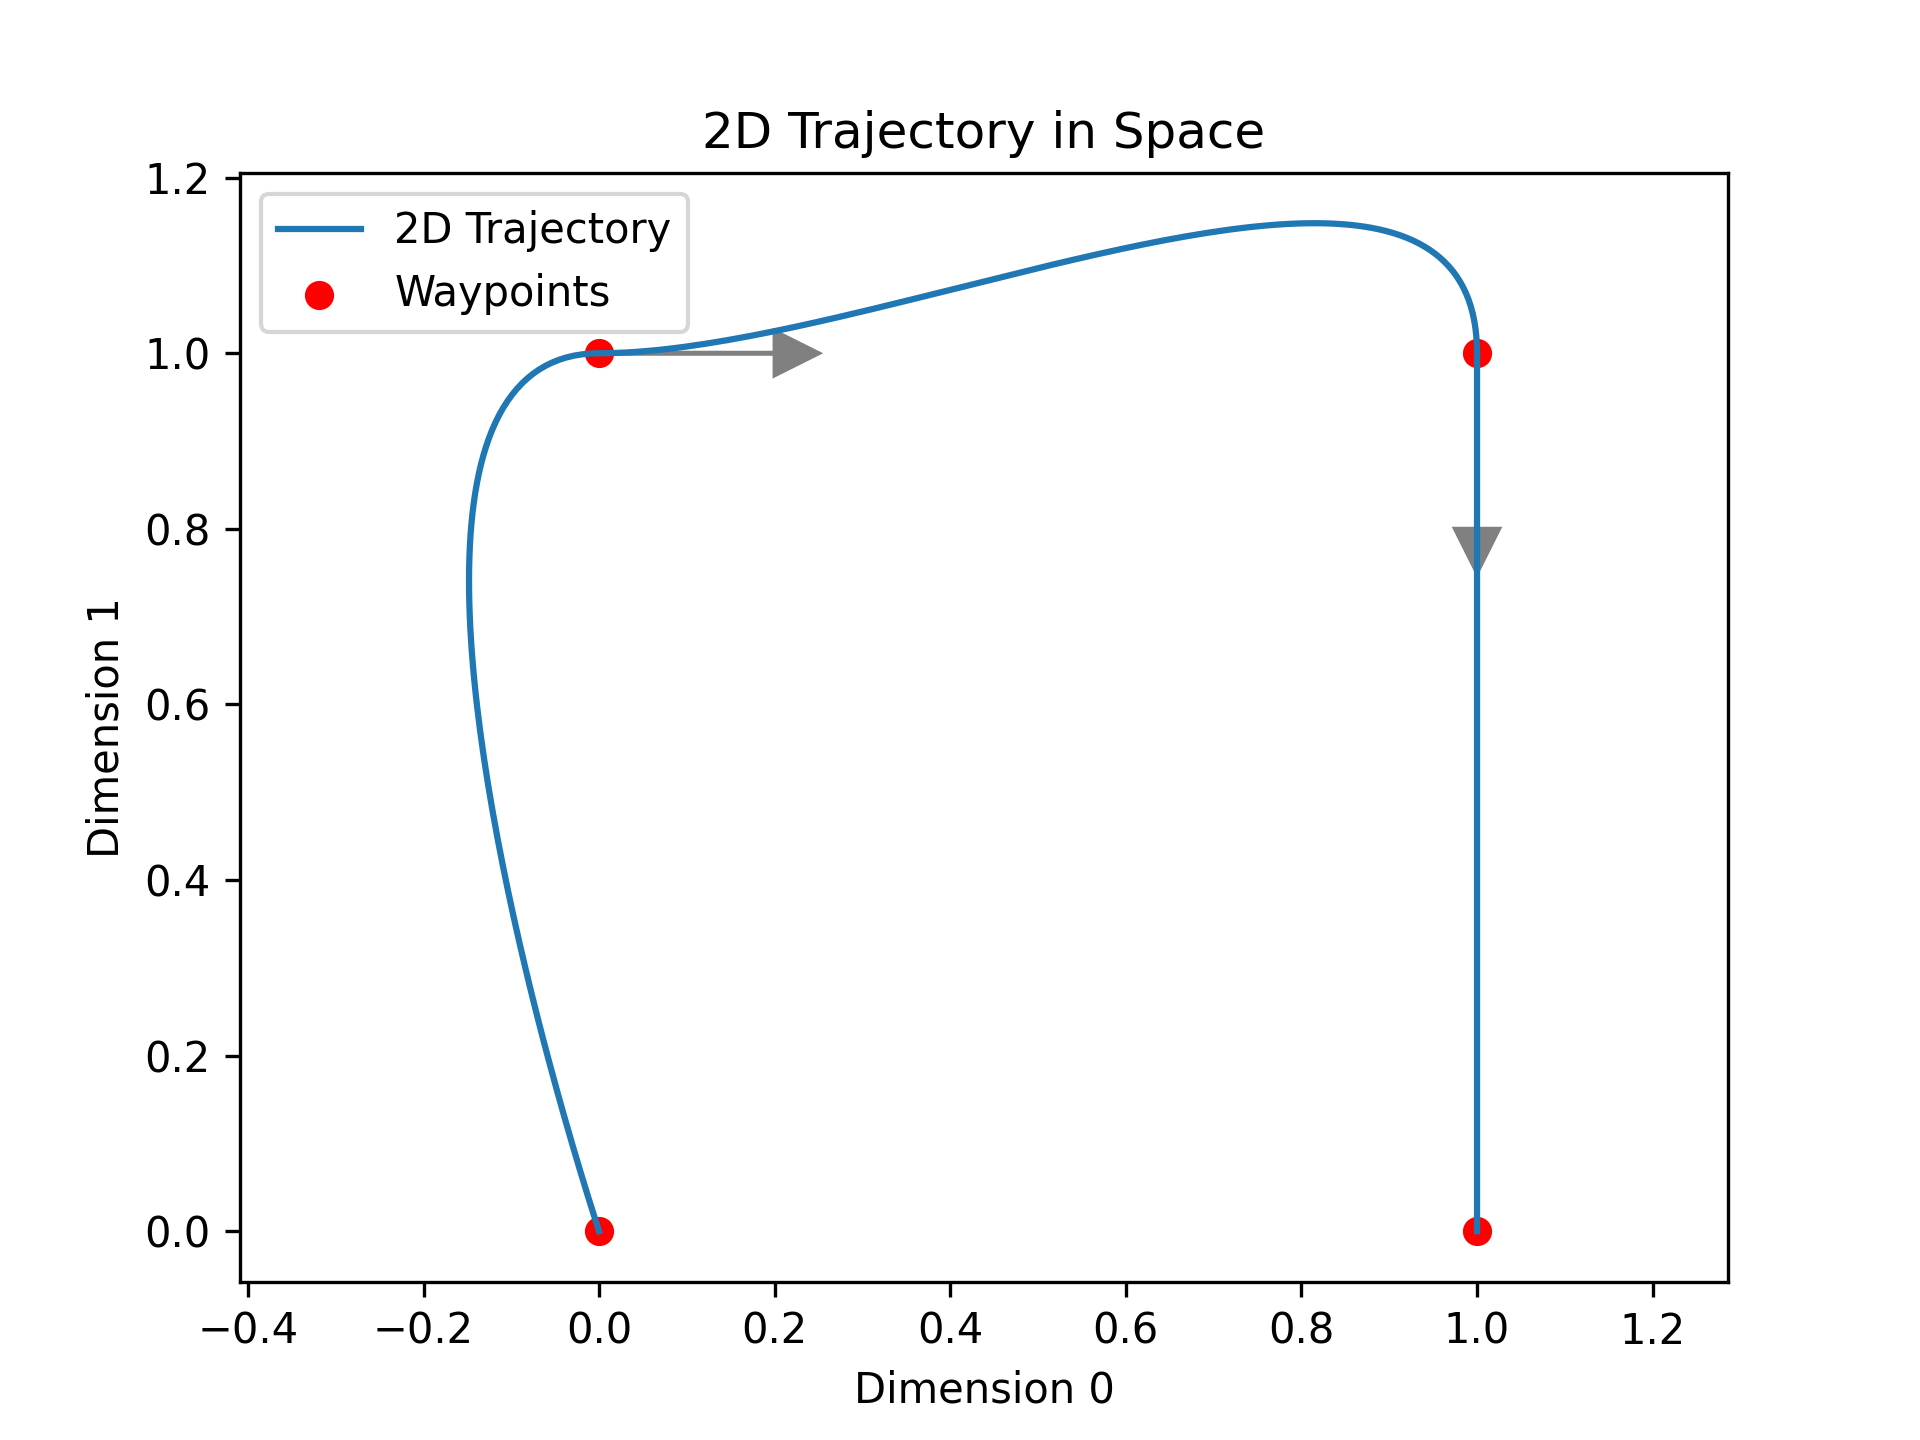
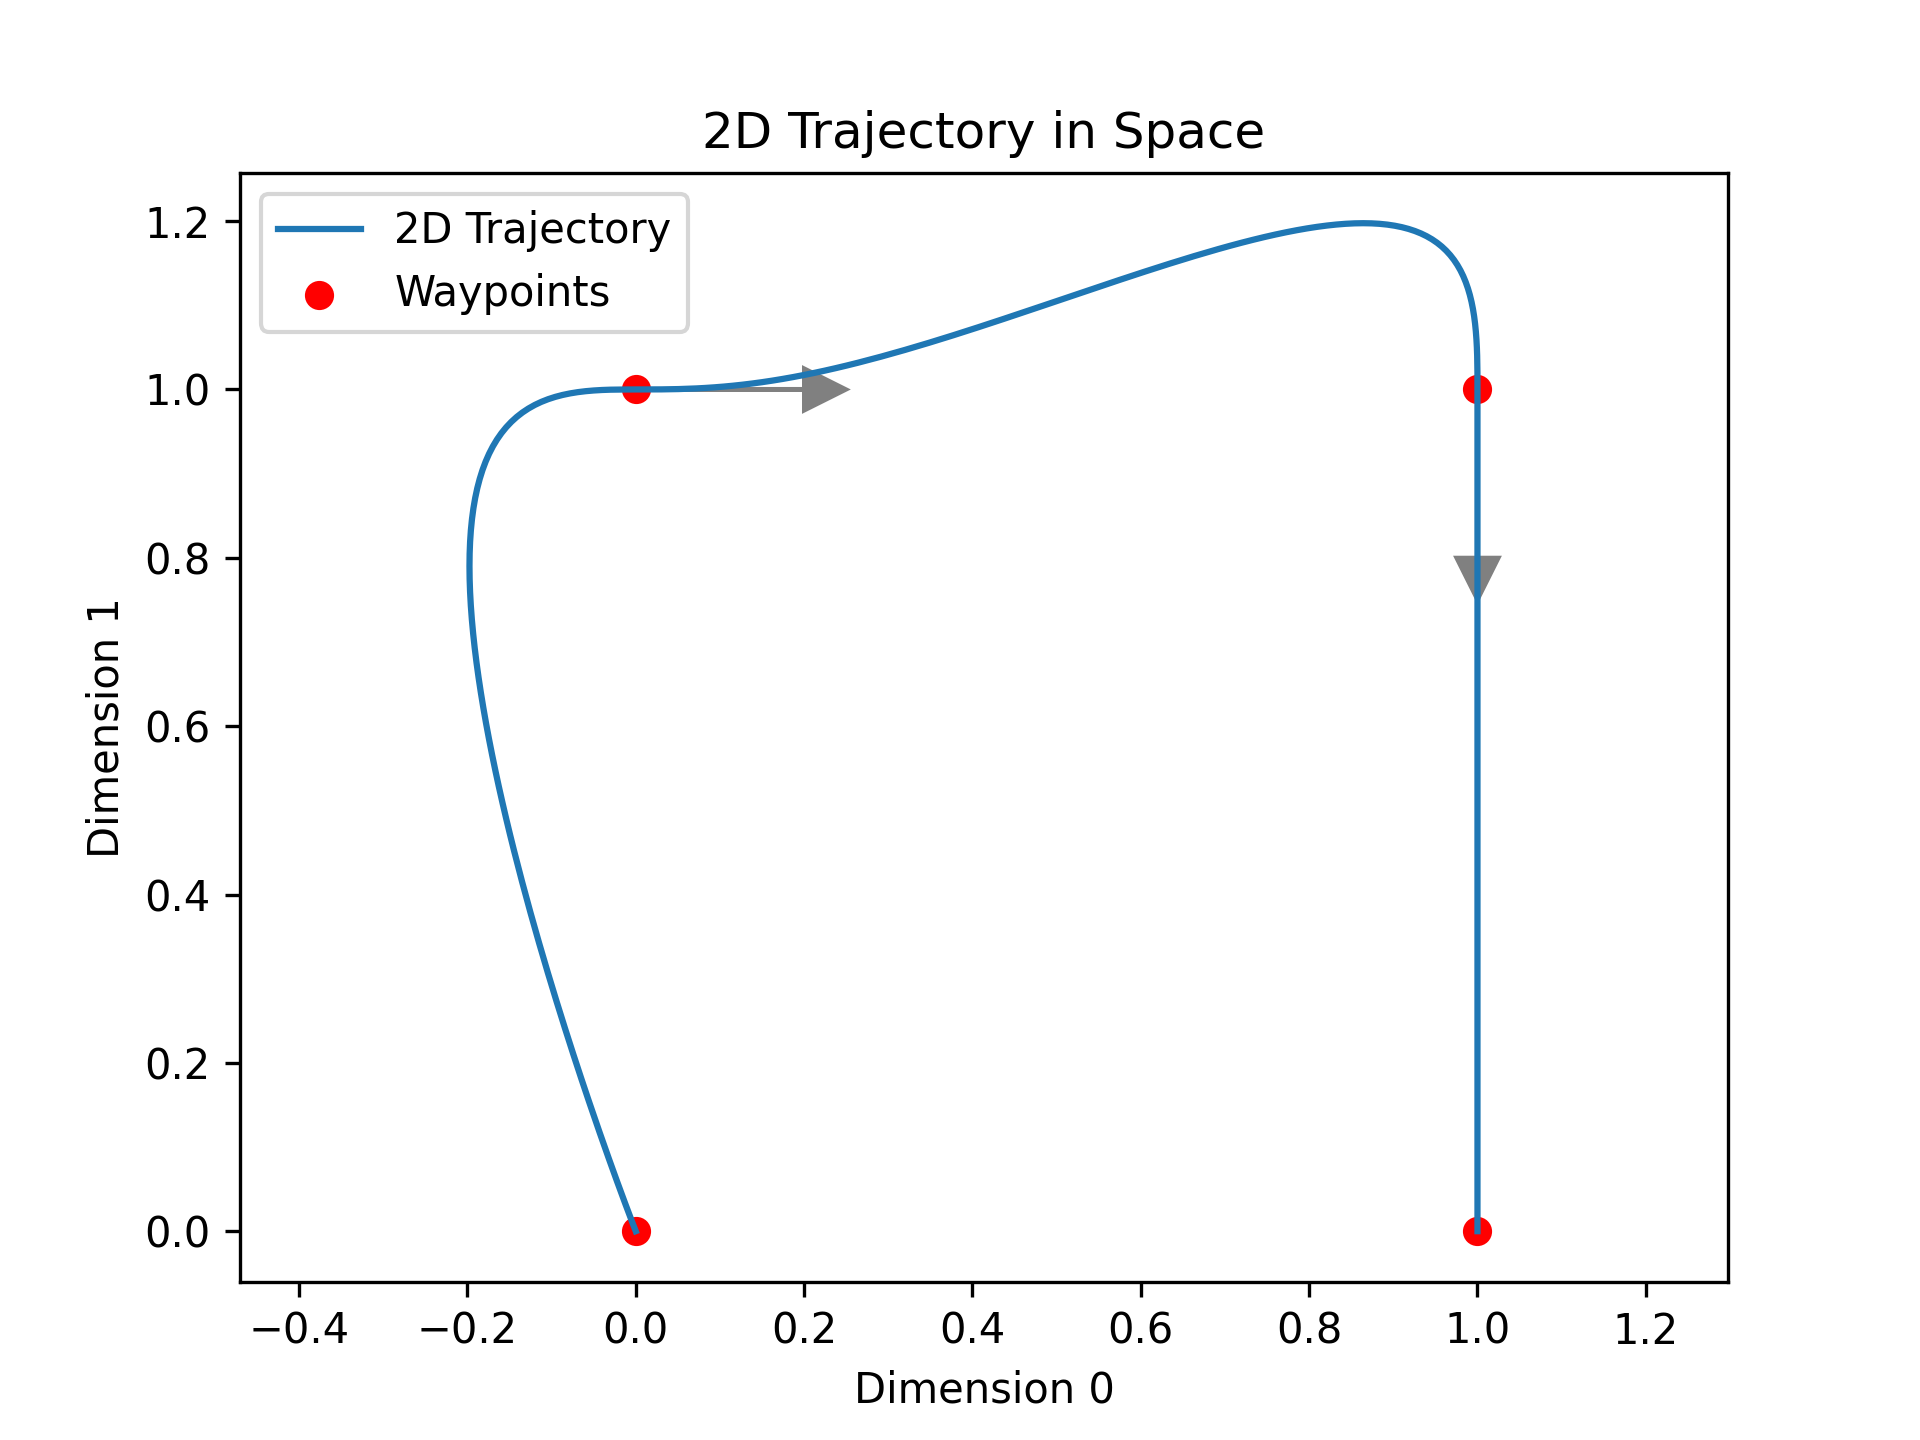
add 5 order to via point

diff --git a/experiments/polynomial_via_point_trajectories/simple_rectangular_motion.py b/experiments/polynomial_via_point_trajectories/simple_rectangular_motion.py
@@ -4,7 +4,7 @@ import matplotlib.pyplot as plt
 
 from basic_algos.trajectory_generation.polynomial_via_point_trajectories import polynomial_via_point_trajectories
 
-def plot_multidimensional_trajectory(coefficients, durations, waypoints=None, velocities=None, num_points=100, save_path=None):
+def plot_multidimensional_trajectory(coefficients, durations, waypoints=None, velocities=None, num_points=100, save_path=None, order=3):
     """
     Plot the multi-dimensional trajectory.
 
@@ -35,17 +35,27 @@ def plot_multidimensional_trajectory(coefficients, durations, waypoints=None, ve
 
         # Compute and concatenate the trajectory segments for the current dimension
         for idx, coeffs in enumerate(dim_coeffs):
-            A, B, C, D = coeffs
+            if order == 3:
+                A, B, C, D = coeffs
+            elif order == 5:
+                A, B, C, D, E, F = coeffs
 
             # Time steps for this segment
             segment_duration = durations[idx]
             segment_time_steps = np.linspace(0, segment_duration, num_points)
 
-            # Calculate position, velocity, and acceleration for this segment
-            pos = A * segment_time_steps**3 + B * segment_time_steps**2 + C * segment_time_steps + D
-            vel = 3 * A * segment_time_steps**2 + 2 * B * segment_time_steps + C
-            acc = 6 * A * segment_time_steps + 2 * B
-
+            if order == 3:
+                # Calculate position, velocity, and acceleration for this segment
+                pos = A * segment_time_steps**3 + B * segment_time_steps**2 + C * segment_time_steps + D
+                vel = 3 * A * segment_time_steps**2 + 2 * B * segment_time_steps + C
+                acc = 6 * A * segment_time_steps + 2 * B
+            elif order == 5:
+                # Calculate position, velocity, and acceleration for quintic polynomial
+                pos = A * segment_time_steps**5 + B * segment_time_steps**4 + C * segment_time_steps**3 + D * segment_time_steps**2 + E * segment_time_steps + F
+                vel = 5 * A * segment_time_steps**4 + 4 * B * segment_time_steps**3 + 3 * C * segment_time_steps**2 + 2 * D * segment_time_steps + E
+                acc = 20 * A * segment_time_steps**3 + 12 * B * segment_time_steps**2 + 6 * C * segment_time_steps + 2 * D
+            else:
+                raise NotImplementedError
             if full_time_steps:
                 segment_time_steps += full_time_steps[-1][-1]  # Offset the time steps to align segments
             full_time_steps.append(segment_time_steps)
@@ -128,15 +138,21 @@ def plot_multidimensional_trajectory(coefficients, durations, waypoints=None, ve
         plt.show()
 
 if __name__ == '__main__':
+    order = 5
+
     # Set up the example
     waypoints = np.array([[0, 0], [0, 1], [1, 1], [1, 0]])  # Example for 2D
     velocities = np.array([[0, 0], [1, 0], [0, -1], [0, 0]])  # Initial and final velocities for each waypoint
     durations = np.array([1.0, 1.0, 1.0])
 
+    # waypoints = np.array([[1.0, 1.0], [1.0, 0.0]])  # Example for 2D
+    # velocities = np.array([[0.0, -1.0], [0.0, 0.0]])  # Initial and final velocities for each waypoint
+    # durations = np.array([1.0])
+
     # Generate coefficients for the polynomial trajectories
-    coefficients = polynomial_via_point_trajectories(waypoints, velocities, durations)
+    coefficients = polynomial_via_point_trajectories(waypoints, velocities, durations, order=order)
 
     # Plot the trajectories and save the plot
     log_dir = os.path.dirname(os.path.abspath(__file__))
     save_path = os.path.join(log_dir, '2D_rectangular_trajectory_plot.png')
-    plot_multidimensional_trajectory(coefficients, durations, waypoints=waypoints, velocities=velocities, save_path=save_path)
+    plot_multidimensional_trajectory(coefficients, durations, waypoints=waypoints, velocities=velocities, save_path=save_path, order=order)

diff --git a/basic_algos/trajectory_generation/point_to_point_trajectories/polynomial_time_scaling.py b/basic_algos/trajectory_generation/point_to_point_trajectories/polynomial_time_scaling.py
@@ -19,16 +19,16 @@ def third_order_polynomial_time_scaling(start_pos, end_pos, start_vel=0, end_vel
             coefficients: (A, B, C, D) Coefficients of the third-order polynomial.
             duration: Calculated time duration of the motion.
     """
-    # Calculate the total position change
-    delta_pos = np.abs(end_pos - start_pos)
+    # Calculate the total position change (retain direction)
+    delta_pos = end_pos - start_pos
     
     # If max_vel or max_acc is provided, calculate the duration
     if max_vel is not None or max_acc is not None:
         # Calculate duration based on maximum velocity if provided
-        duration_vel = 3 * delta_pos / (2 * max_vel) if max_vel is not None else 0.0
+        duration_vel = 3 * np.abs(delta_pos) / (2 * max_vel) if max_vel is not None else 0.0
         
         # Calculate duration based on maximum acceleration if provided
-        duration_acc = np.sqrt((6 * delta_pos) / max_acc) if max_acc is not None else 0.0
+        duration_acc = np.sqrt((6 * np.abs(delta_pos)) / max_acc) if max_acc is not None else 0.0
         
         # Choose the larger duration to ensure both constraints are satisfied
         duration = max(duration_vel, duration_acc, duration) if duration is not None else max(duration_vel, duration_acc)
@@ -40,6 +40,7 @@ def third_order_polynomial_time_scaling(start_pos, end_pos, start_vel=0, end_vel
     D = start_pos
 
     return (A, B, C, D), duration
+
 
 def fifth_order_polynomial_time_scaling(start_pos, end_pos, start_vel=0, end_vel=0, start_acc=0, end_acc=0, max_vel=None, max_acc=None, duration=None):
     """
@@ -62,17 +63,17 @@ def fifth_order_polynomial_time_scaling(start_pos, end_pos, start_vel=0, end_vel
             coefficients: (A, B, C, D, E, F) Coefficients of the fifth-order polynomial.
             duration: Calculated time duration of the motion.
     """
-    # Calculate the total position change
-    delta_pos = np.abs(end_pos - start_pos)
+    # Calculate the total position change (retain direction)
+    delta_pos = end_pos - start_pos
 
     # If max_vel or max_acc is provided, calculate the duration
     if max_vel is not None or max_acc is not None:
         # Estimate the duration needed to reach max velocity and acceleration
         # Peak velocity for a fifth-order polynomial is v_max = 15/8 * (delta_pos / duration)
-        duration_vel = 15 * delta_pos / (8 * max_vel) if max_vel is not None else 0.0
+        duration_vel = 15 * np.abs(delta_pos) / (8 * max_vel) if max_vel is not None else 0.0
 
         # Peak acceleration for a fifth-order polynomial is a_max = 10 * delta_pos / (T^2 * sqrt(3))
-        duration_acc = np.sqrt(10 * delta_pos / (max_acc * np.sqrt(3))) if max_acc is not None else 0.0
+        duration_acc = np.sqrt(10 * np.abs(delta_pos) / (max_acc * np.sqrt(3))) if max_acc is not None else 0.0
 
         # Choose the larger duration to ensure both constraints are satisfied
         duration = max(duration_vel, duration_acc, duration) if duration is not None else max(duration_vel, duration_acc)
@@ -86,6 +87,7 @@ def fifth_order_polynomial_time_scaling(start_pos, end_pos, start_vel=0, end_vel
     F = start_pos
 
     return (A, B, C, D, E, F), duration
+
 
 # Example usage
 if __name__ == '__main__':

diff --git a/basic_algos/trajectory_generation/polynomial_via_point_trajectories/polynomial_via_point_trajectories.py b/basic_algos/trajectory_generation/polynomial_via_point_trajectories/polynomial_via_point_trajectories.py
@@ -1,10 +1,10 @@
 import numpy as np
 
-from basic_algos.trajectory_generation.point_to_point_trajectories import third_order_polynomial_time_scaling
+from basic_algos.trajectory_generation.point_to_point_trajectories import third_order_polynomial_time_scaling, fifth_order_polynomial_time_scaling
 
 # TODO: Add fifth order polynomial time scaling, too.
 
-def polynomial_via_point_trajectories(waypoints, velocities=None, durations=None):
+def polynomial_via_point_trajectories(waypoints, velocities=None, durations=None, order=3):
     """
     Generates polynomial trajectories for multi-dimensional waypoints.
 
@@ -41,7 +41,12 @@ def polynomial_via_point_trajectories(waypoints, velocities=None, durations=None
             duration = durations[i] if durations is not None else 1.0
 
             # Calculate the polynomial coefficients for this segment
-            coeffs, _ = third_order_polynomial_time_scaling(start_pos, end_pos, start_vel, end_vel, duration=duration)
+            if order == 3:
+                coeffs, _ = third_order_polynomial_time_scaling(start_pos, end_pos, start_vel, end_vel, duration=duration)
+            elif order == 5:
+                coeffs, _ = fifth_order_polynomial_time_scaling(start_pos, end_pos, start_vel, end_vel, duration=duration)
+            else:
+                raise NotImplementedError
             coefficients[dim].append(coeffs)
 
     return coefficients
